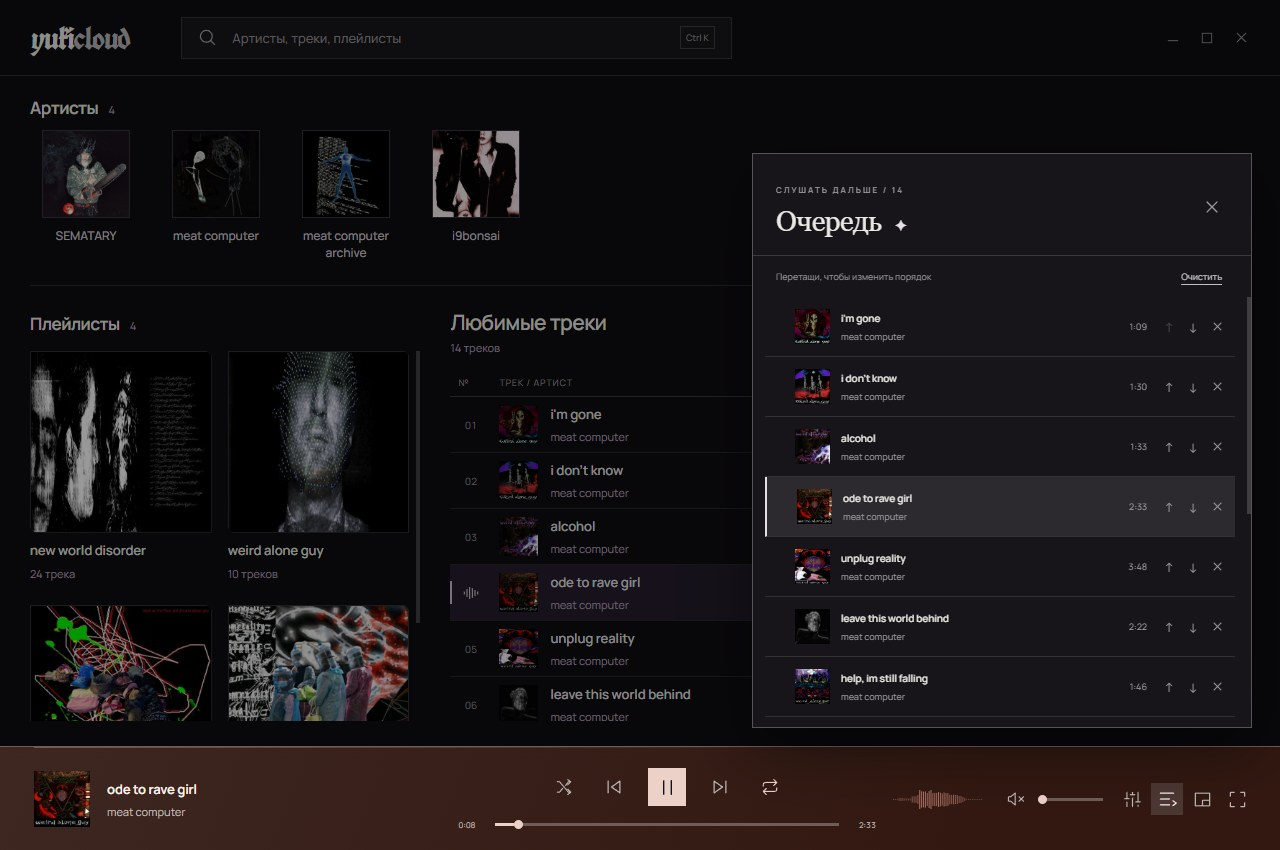
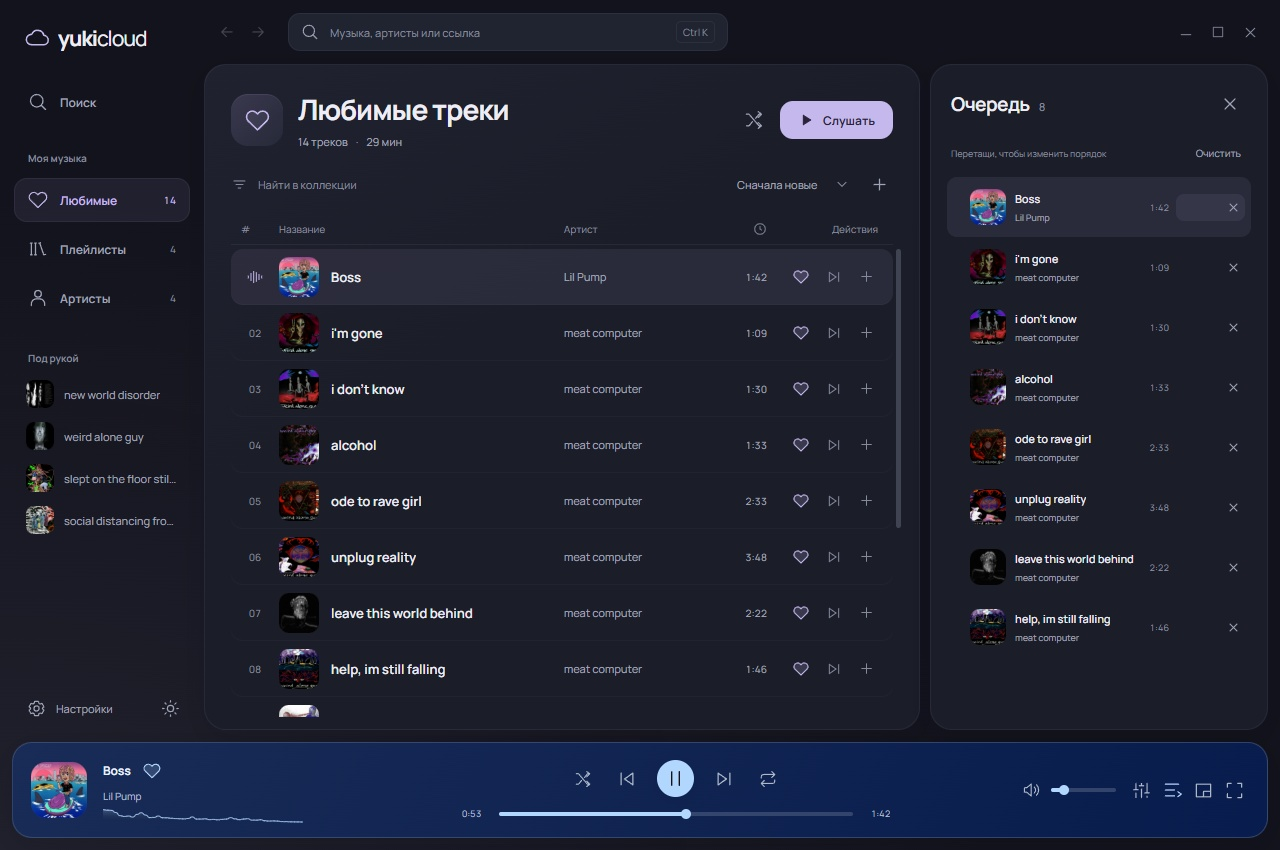
docs: shorten README and refresh queue and equalizer screenshots [skip ci]
Replace outdated queue/EQ images with native v0.2 captures and refresh the main window in both themes. Reduce the README to downloads, core features, current screenshots, essential controls, and build commands.

diff --git a/README.md b/README.md
@@ -1,139 +1,66 @@
 # yukicloud
 
-SoundCloud для Windows. Спокойное пространство для музыки: отдельные разделы, мягкая геометрия и плеер, который всегда под рукой.
+Неофициальный SoundCloud-плеер для **Windows 10/11 · x64**.
 
-**Windows 10 / 11 · x64**
+**v0.2** · [Установщик](https://github.com/MaimeD666/yukimusic/releases/download/v0.2/yukicloud_0.2.0_x64-setup.exe) · [Portable](https://github.com/MaimeD666/yukimusic/releases/download/v0.2/yukicloud_0.2.0_x64-portable.zip) · [Релиз](https://github.com/MaimeD666/yukimusic/releases/tag/v0.2)
 
-Версия **0.2**: новый интерфейс, две темы, отдельные разделы и переработанный спектр звука.
+![yukicloud](docs/screenshots/redesign-dark.png)
 
-[Скачать установщик](https://github.com/MaimeD666/yukimusic/releases/download/v0.2/yukicloud_0.2.0_x64-setup.exe) · [Portable](https://github.com/MaimeD666/yukimusic/releases/download/v0.2/yukicloud_0.2.0_x64-portable.zip) · [Все файлы релиза](https://github.com/MaimeD666/yukimusic/releases/tag/v0.2)
+[Светлая тема](docs/screenshots/redesign-light.png)
 
-![Новый интерфейс — тёмная тема](docs/screenshots/redesign-dark.png)
+- Поиск, любимые треки, плейлисты и артисты.
+- Очередь с перетаскиванием, перемешивание и повтор.
+- Обычный, полноэкранный и мини-плеер.
+- 10-полосный эквалайзер, спектр и бас-режим.
+- Две темы и цвета плеера по обложке.
 
-[Светлая тема](docs/screenshots/redesign-light.png). Превью основного окна в обеих темах сняты в браузере с тестовым мостом к нативным командам и сохранёнными обложками. Скриншоты полноэкранного и мини-плеера ниже сняты в настольном приложении версии 0.2.
-
-## Музыка в своём пространстве
-
-«Любимые», «Плейлисты» и «Артисты» — самостоятельные разделы. Поиск открывается отдельно, результаты переключаются между треками, артистами и плейлистами. У артиста и плейлиста свой экран; кнопки назад и вперёд возвращают фильтр, сортировку и место в списке. Следующие результаты подгружаются сами, длинные списки виртуализированы.
-
-- Две темы: тёмная «Лунная» по умолчанию и светлая «Облачная». Выбор сохраняется.
-- Фильтр коллекции, сортировка треков и воспроизведение всего списка обычным порядком или вперемешку.
-- Постоянный нижний плеер, быстрые ссылки на плейлисты и действия рядом с каждым треком.
-- «Слушать» на карточке запускает музыку без перехода. Удаление артиста или плейлиста — через ПКМ с подтверждением; наведение не двигает элементы.
-- Очередь и эквалайзер открываются сбоку, сохраняя доступ к рабочему списку. В маленьком окне навигация сжимается до иконок.
-- Полный экран, мини-плеер, контекстное меню и настройка звука сохраняют прежние возможности.
-
-- Локальная коллекция любимых треков, артистов и плейлистов.
-- Полные треки плейлистов и постраничная загрузка каталога артиста, включая неполные ответы API.
-- Очередь с перетаскиванием, «следующим», «в конец», shuffle и тремя режимами повтора. Два одинаковых трека — два отдельных места в очереди.
-- Недоступные записи пропускаются. Буферизация и временные ошибки сети сохраняют трек в очереди.
-- Собственная громкость, десятиполосный эквалайзер ±12 dB и пресеты.
-- Свой ПКМ: трек, артист, плейлист и очередь получают подходящие действия.
-- Медиа-клавиши Windows и кнопки предыдущего трека, паузы и следующего под превью в панели задач.
-- Автоматический переход на новое устройство вывода Windows с сохранением позиции, громкости и EQ.
-
-## Полный экран и бас-режим
-
-Палитра извлекается из обложки в OKLab: меняется весь плеер, включая фон и текст. Контраст проверяется отдельно. Спектр строится по реальному аудио.
-
-![Полноэкранный плеер — версия 0.2](docs/screenshots/fullscreen.jpg)
-
-Кнопка **«Бас»** или **B** включает отклик низких частот: удар обложки и цветного света. Кнопки остаются на месте, чтобы дроп не пришлось ловить мышкой. Режим визуальный; настройку звука оставили эквалайзеру.
-
-![Бас-режим — Boss, Lil Pump, версия 0.2](docs/screenshots/bass.webp)
-
-Запись настольного приложения версии **0.2**: [**Boss — Lil Pump**](https://soundcloud.com/lilpump/lil-pump-boss-prod-diablo), участок **0:51–0:59**. Обложка и свет реагируют на низкие частоты реального воспроизведения. Анимация в README без звука.
-
-На паузе эффект затихает, в фоне останавливается. При системном ограничении анимаций пульсация отключена.
-
-## Маленький, но с характером
-
-Мини-плеер закрепляется поверх окон. Разворачивается обратно одной кнопкой. Работу делать всё ещё придётся, зато саундтрек уже есть.
-
-![Мини-плеер — версия 0.2](docs/screenshots/mini.png)
+Коллекция хранится локально. Входа в аккаунт и офлайн-загрузки нет.
 
 <details>
-<summary>Очередь и эквалайзер</summary>
+<summary>Плееры, очередь и эквалайзер</summary>
 
-Скриншоты версии 0.1.
+**Полноэкранный плеер**
+
+![Полноэкранный плеер](docs/screenshots/fullscreen.jpg)
+
+**Мини-плеер**
+
+![Мини-плеер](docs/screenshots/mini.png)
+
+**Очередь**
 
 ![Очередь](docs/screenshots/queue.jpg)
+
+**Эквалайзер**
+
 ![Эквалайзер](docs/screenshots/equalizer.jpg)
 
 </details>
 
-## Сколько ест
+**Бас-режим · Boss — Lil Pump, 0:51–0:59**
 
-| Режим | Working set всей группы | Private commit | CPU |
-| --- | ---: | ---: | ---: |
-| Открытое окно, музыка и спектр | 464.1 MiB | 277.5 MiB | 1.306% |
-| Полный экран и бас-режим | 466.6 MiB | 300.4 MiB | 1.066% |
-| В трее, музыка играет | 70.0 MiB | 45.2 MiB | 0.033% |
-| В трее, пауза | 70.1 MiB | 45.2 MiB | 0.011% |
-
-Замер всей группы процессов: приложение, WebView2 и FFmpeg. Windows 10, i7-14700K, 32 ГБ RAM, монитор 165 Гц; интервалы по 10 секунд. CPU указан как доля общей мощности всех 28 логических процессоров. Working set суммируется, поэтому общие страницы могут учитываться несколько раз. Это ориентир для этого ПК, а не обещание одинаковых цифр на любом железе. [Исходные замеры](docs/measurements.json).
-
-После скрытия в трей WebView выгружается через 30 секунд. Звук, очередь и системные медиа-кнопки продолжают работать в Rust. При открытии интерфейс создаётся заново. В памяти держится до 16 MiB сжатого аудио; заранее подготавливается следующий трек. Вся очередь целиком не скачивается.
-
-В проверке релиза: старт без прогретого кэша — около **858 мс**, перемотка по загруженным данным — **34–49 мс**, подготовленный следующий трек — около **206 мс**. Измерялось появление PCM/состояния воспроизведения, без задержки физического аудиоустройства; сеть и доступность CDN влияют на результат.
-
-## Из чего собрано
-
-| Часть | Что внутри |
-| --- | --- |
-| Окно и интеграция Windows | Tauri 2, Rust, WebView2, Win32 |
-| Интерфейс | Svelte 5, TypeScript, CSS, Canvas |
-| Звук | Rust, rodio / WASAPI, отдельный FFmpeg 8.0.1 |
-| Эквалайзер | Каскад biquad-фильтров с запасом громкости при усилении |
-| Спектр и бас | FFT реального PCM, перекрывающиеся окна, отрисовка по частоте экрана |
-| Обложки | OKLab, проверка контраста, локальный кэш |
-| API | Публичный SoundCloud API v2; получение client_id из публичных JS-файлов сервиса |
-
-FFmpeg собран специально для декодирования аудио: примерно **2,1 MiB**, без видеокодеков и внешних мультимедийных библиотек. Установщик приложения — примерно **5,1 MiB**. WebView2 использует установленный системный Runtime; при его отсутствии установщик предложит загрузку.
+![Бас-режим](docs/screenshots/bass.webp)
 
 ## Управление
 
-| Клавиши | Действие |
-| --- | --- |
-| Ctrl K | Поиск |
-| Alt ← / → | Назад / вперёд по экранам |
-| Пробел | Воспроизведение / пауза |
-| F | Полноэкранный плеер |
-| B | Бас-режим в полноэкранном плеере |
-| M | Мини-плеер |
-| Q | Очередь |
-| ← / → | Перемотка на 5 секунд |
-| Shift ← / → | Предыдущий / следующий трек |
-| Escape | Закрыть панель или вернуться из плеера |
+`Пробел` — пауза · `Ctrl K` — поиск · `F` — полный экран · `M` — мини-плеер · `Q` — очередь · `B` — бас-режим.
 
-Крестик убирает приложение в трей. **Полный выход — через меню трея.** Коллекция и настройки лежат в `%APPDATA%/dev.maimed.yukicloud`; для резервной копии достаточно сохранить эту папку после выхода.
+Крестик сворачивает в трей. Выход — через меню трея.
 
-## Собрать самому
+<details>
+<summary>Сборка из исходников</summary>
 
-Нужны Windows x64, Node 22+, Rust stable с MSVC, Visual Studio Build Tools с C++ и Windows SDK, Python 3.11+.
+Node 22+, Rust MSVC, Visual Studio Build Tools (C++ и Windows SDK), Python 3.11+.
 
 ```powershell
 npm ci
 python scripts/prepare-ffmpeg.py
-powershell -NoProfile -ExecutionPolicy Bypass -File scripts/dev.ps1
-```
-
-Скрипт FFmpeg скачивает закреплённые версии исходников и переносимых инструментов, проверяет SHA256 и собирает декодер в `.tools`. Системные компиляторы и настройки не заменяет.
-
-```powershell
-powershell -NoProfile -ExecutionPolicy Bypass -File scripts/test.ps1
 powershell -NoProfile -ExecutionPolicy Bypass -File scripts/build.ps1
 powershell -NoProfile -ExecutionPolicy Bypass -File scripts/package.ps1
 ```
 
-Готовые файлы появятся в `release/`. `npm run dev` открывает браузерный предпросмотр; поиск и звук работают в настольной сборке. GitHub Actions повторяет сборку Windows и публикует релиз `v0.2` после успешных проверок. Если релиз уже существует, новая сборка остаётся артефактом запуска и не заменяет опубликованные файлы.
+Готовые файлы — в `release/`.
 
-Автотесты проверяют очередь, DSP, буферизацию, палитру и бас. Отдельные нативные проверки покрывают реальный SoundCloud, точность MP3/HLS-перемотки, подгрузку списков и 49 сценариев геометрии окна. [Подробнее о проверках](docs/testing.md).
+</details>
 
-## Маленький шрифт, обычным размером
-
-Это неофициальный клиент SoundCloud и ранняя версия **0.2**. API v2 внутренний: изменения сервиса могут потребовать обновления клиента. Региональные ограничения и доступность записей определяет SoundCloud.
-
-Коллекция **локальная**: входа в аккаунт и синхронизации лайков пока нет. Также нет офлайн-загрузки, gapless и crossfade. «Минимализм» здесь иногда честно означает «ещё не написали».
-
-FFmpeg распространяется отдельным заменяемым исполняемым файлом под LGPL 2.1+. Его точный исходный архив приложен к релизу; конфигурация сборки — в `scripts/ffmpeg-configure.sh`. Лицензии компонентов и шрифтов: [THIRD-PARTY](src-tauri/resources/THIRD-PARTY.txt), [шрифты](public/fonts).
+[Тестирование](docs/testing.md) · [Замеры](docs/measurements.json) · [Лицензии компонентов](src-tauri/resources/THIRD-PARTY.txt)
